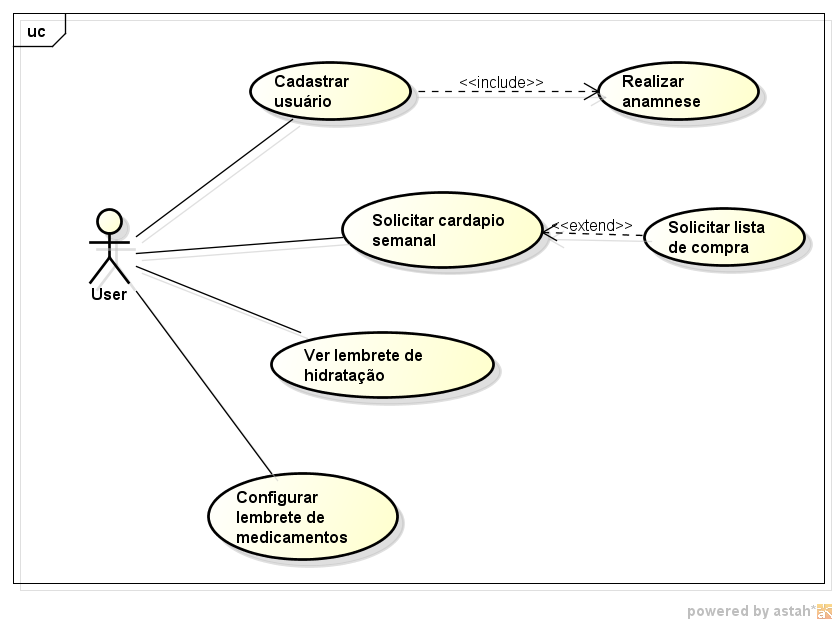
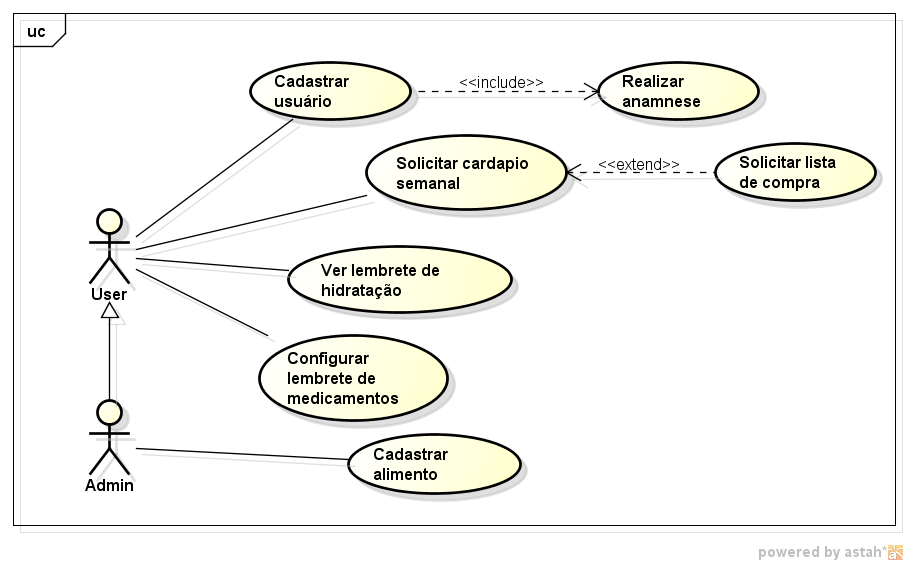
Pages (#16)
* docs

* fix

* fix

* fix

* fix

* fix

* fix

diff --git a/README.md b/README.md
@@ -1,11 +1,13 @@
 # Well-Being
-App de bem estar
 Pages: https://well-being-app.github.io/well-being/
 
 ## Escopo
-O Well-Being propõe-se a facilitar uma vida mais saudável para as pessoas, retirando a dificuldade no planejamento das refeições e de lembretes importantes para a saúde. Para isso, o aplicativo utiliza os dados de anamnese do usuário para recomendar cardápios semanais, quantidade de água que deve ser consumida e lembretes para remédios.
+O Well-Being é um aplicativo que propõe facilitar uma vida mais saudável para as pessoas, retirando a dificuldade no planejamento das refeições e de lembretes importantes para a saúde. Para isso, o aplicativo utiliza os dados de anamnese do usuário para recomendar cardápios semanais, quantidade de água que deve ser consumida e lembretes para remédios.
+As sugestões de alimentação semanal e lista de compra de mercado serão geradas com base na tabela [TACO](https://www.nepa.unicamp.br/taco/tabela.php?ativo=tabela), que fornece alimentos base e valr nutricional dos mesmos.
 
 ## Funcionalidades
+
+- **Cadastro de alimentos** - os dados base de alimentos que serão utilizados estão na tabela TACO, mas o usuário administrador pode cadastrar outros alimentos no sistema, informando os dados necessários para a utilização nas funcionalidades;
 - **Cadastro de usuário** - cadastro de usuário e senha;
 - **Registro da anamnese do usuário** - deve ser feito após o cadastro, caso não feito, nenhuma das outras funcionalidades estará disponível;
 - **Criação de cardápio semanal** - o usuário pode solicitar um cardápio semanal de cafe da manha, almoço, café da tarde e jantar para sua semana de acordo com a sua anamnese (por exemplos, para alergicos a glutem, alimentos com glutem não serão apresentados);
@@ -13,11 +15,3 @@ O Well-Being propõe-se a facilitar uma vida mais saudável para as pessoas, ret
 - **Ver lembrete de hidratação** - após a anamsene, o sistemaé capaz de calcular a quantidade e os horários em que o usuário deve ingerir liquidos. Então, o usuário pode consultar esses lembretes gerados (que também virão como notificações nos horários pertinentes);
 - **Configurar lembretes de medicamentos** - a pessoa que precisa de lembretes para seus remédios controlados, pode inserir os dados do medicamento no sistema e também os horários que devem ser tomados pra que o sistema gere notificações (lembretes);
 
-
-## Outros documentos 
-
-- **Planejamento**
-    * [Planejamento do projeto](./docs/planejamento.md)
-- **Infra**
-    * [Infra Backend](./docs/infra-backend.md)
-    * [Infra Frontend](./docs/infra-frontend.md)

diff --git a/docs/index.md b/docs/index.md
@@ -1,0 +1,15 @@
+# Well-Being App
+
+O Well-Being é um aplicativo que propõe facilitar uma vida mais saudável para as pessoas, retirando a dificuldade no planejamento das refeições e de lembretes importantes para a saúde. Para isso, o aplicativo utiliza os dados de anamnese do usuário para recomendar cardápios semanais, quantidade de água que deve ser consumida e lembretes para remédios.
+As sugestões de alimentação semanal e lista de compra de mercado serão geradas com base na tabela [TACO](https://www.nepa.unicamp.br/taco/tabela.php?ativo=tabela), que fornece alimentos base e valr nutricional dos mesmos.
+
+## Documentos 
+- **Diagramas**
+    * [Diagrama de casos de uso](casos-de-uso.md)
+- **Descrição do projeto**
+    * [Escopo e Funcionalidades](./README.md)
+- **Planejamento**
+    * [Planejamento do projeto](planejamento.md)
+- **Infra**
+    * [Infra Backend](infra-backend.md)
+    * [Infra Frontend](infra-frontend.md)

diff --git a/docs/casos-de-uso.md b/docs/casos-de-uso.md
@@ -1,0 +1,3 @@
+# Diagrama de casos de uso
+
+![Casos de uso](images/UseCase.png)
